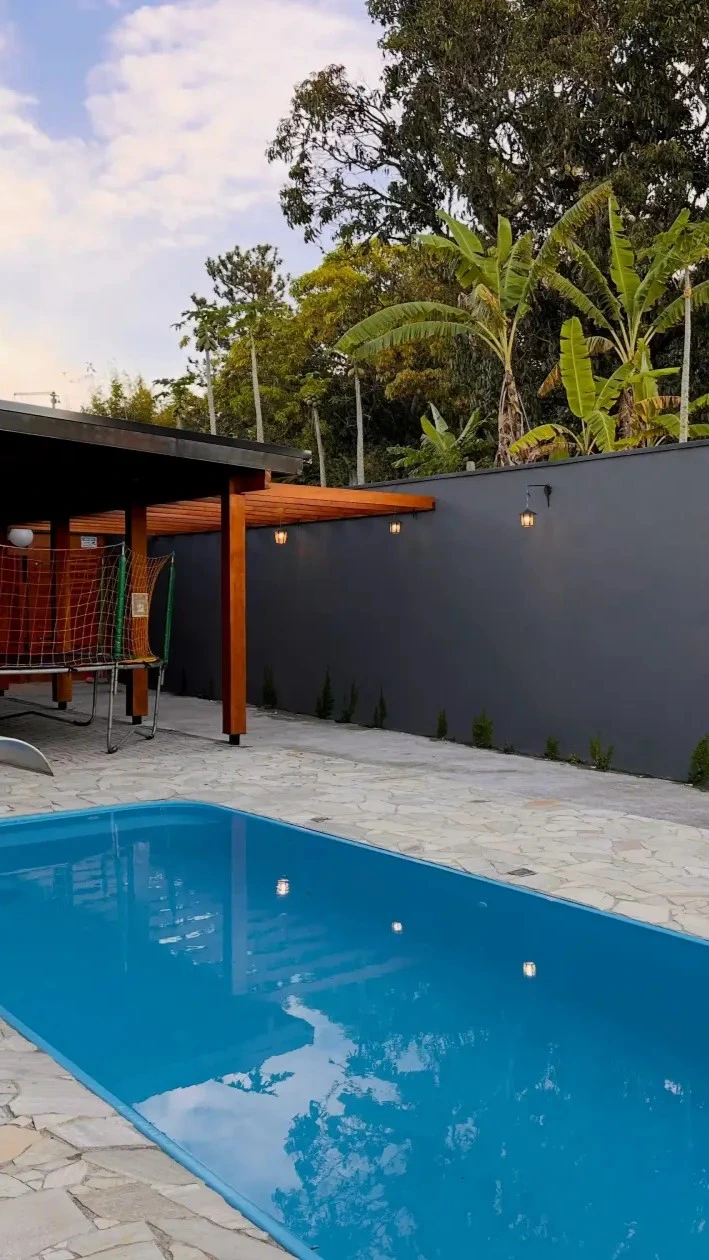
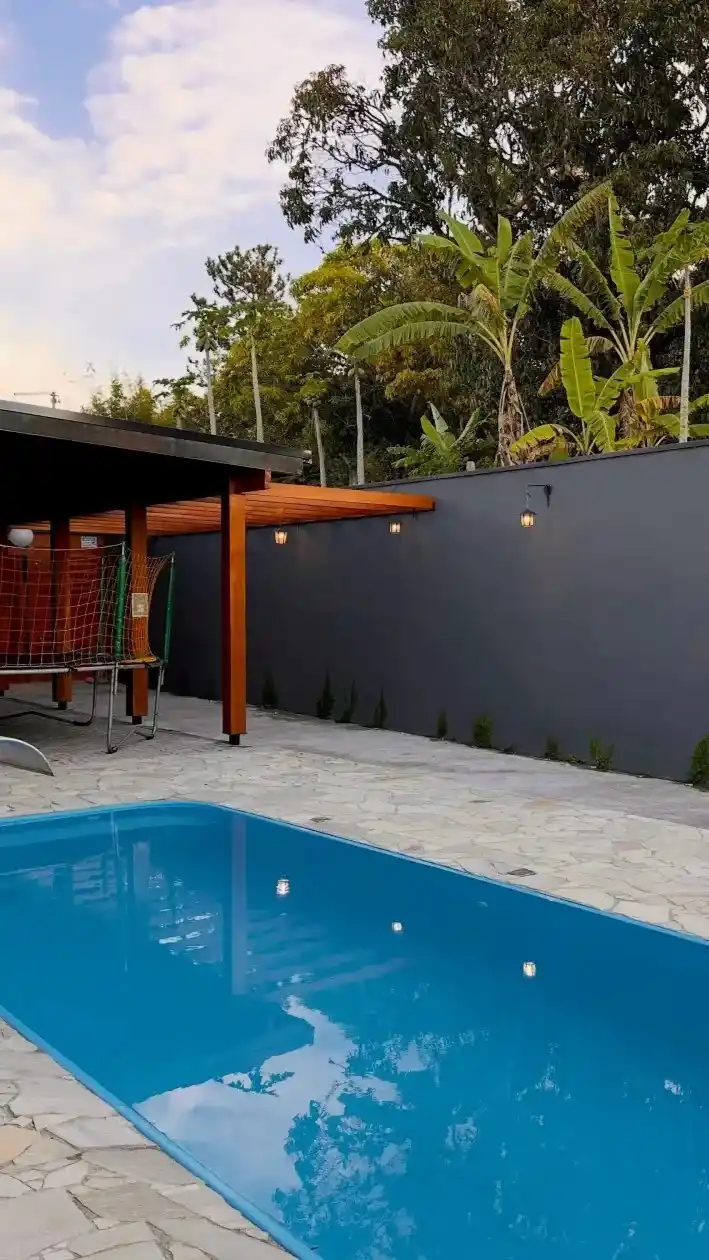
melhora css

diff --git a/index.html b/index.html
@@ -10,8 +10,10 @@
   <link rel="icon" type="image/svg+xml" href="assets/img/logos/svg/logo-verde.svg">
   <link rel="icon" type="image/png" href="assets/img/logos/png/logo-verde.png">
   <link rel="apple-touch-icon" href="assets/img/logos/png/logo-verde-com-fundo.png">
-  <link rel="stylesheet" href="assets/css/styles.css">
-  <link rel="stylesheet" href="assets/css/map.css">
+  <link rel="stylesheet" href="assets/css/styles.css" media="print" onload="this.media='all'">
+  <noscript><link rel="stylesheet" href="assets/css/styles.css"></noscript>
+  <link rel="stylesheet" href="assets/css/map.css" media="print" onload="this.media='all'">
+  <noscript><link rel="stylesheet" href="assets/css/map.css"></noscript>
 
   <script async src="https://www.googletagmanager.com/gtag/js?id=G-GKCP70MKEM"></script>
   <script>
